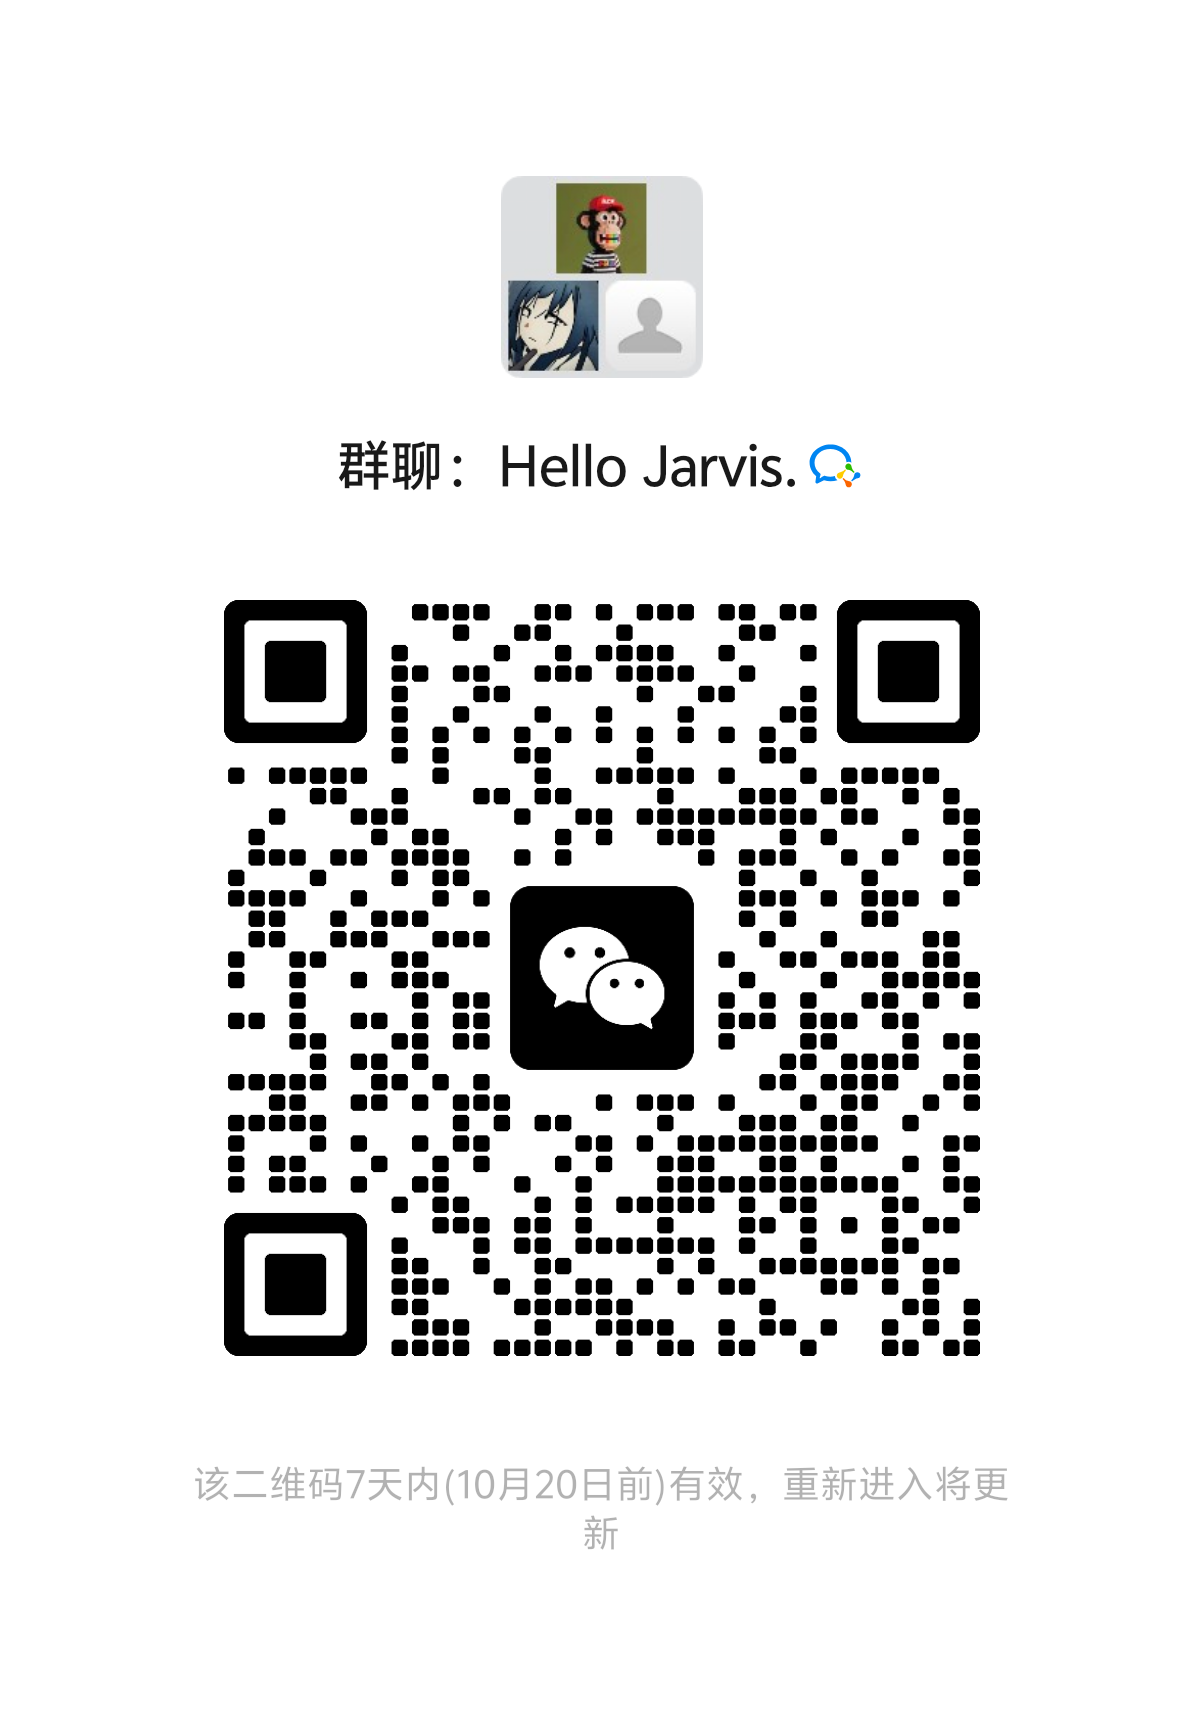
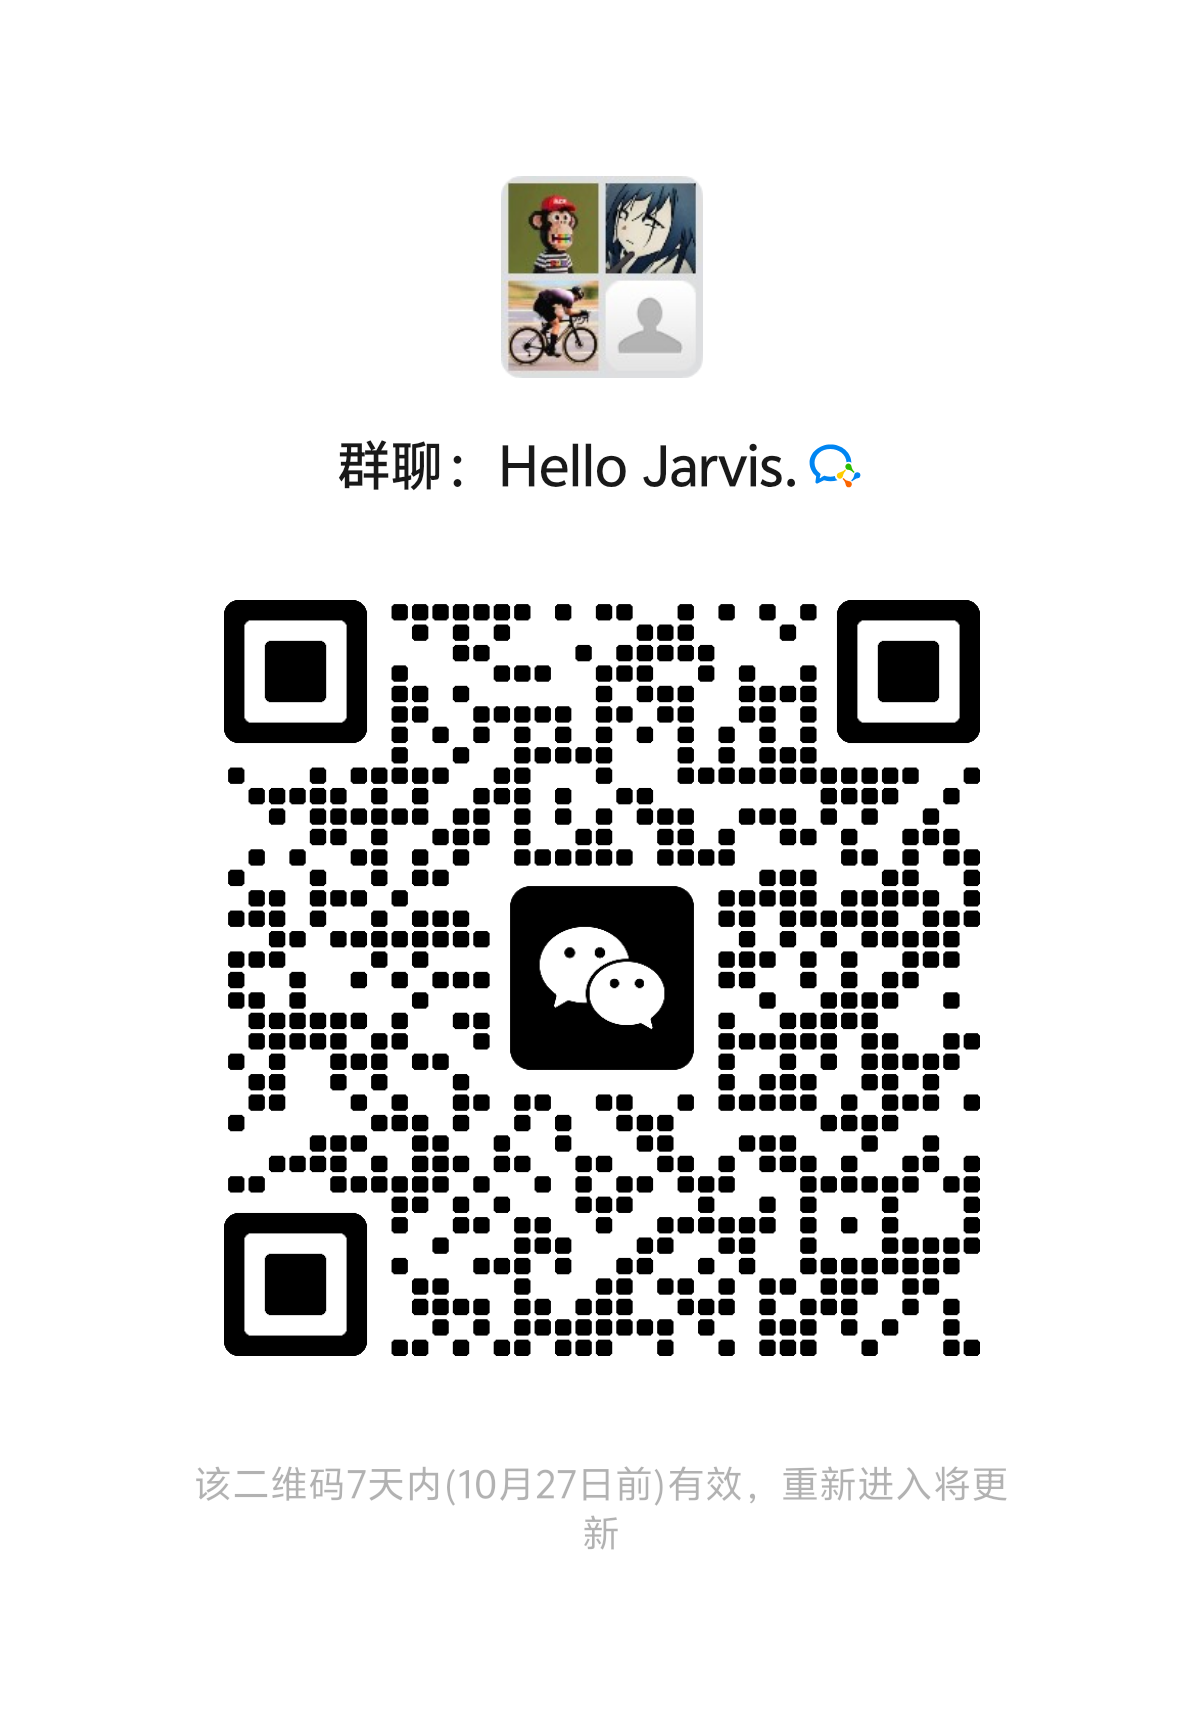
docs(readme): 交流群板块新增抖音群聊入口
- README.md / README.en.md：入群表格由两栏扩为三栏，新增抖音群「Hello Jarvis.」
  （群号 777346526350）及其入群码 assets/communication/discussion-group3.jpg
- 脚注补充“QQ 群与抖音群可直接在 App 内搜索群号加入”（英文版额外说明其不受二维码
  失效影响）；不写死抖音码到期日，避免文档过期失真
- 同步更新已过期微信群二维码 assets/communication/discussion-group.png

diff --git a/README.en.md b/README.en.md
@@ -238,15 +238,17 @@ Scan to join and exchange Agent app development experience, plugins and various 
 <table>
 <tr>
   <td align="center">WeChat group "Hello Jarvis."</td>
-  <td align="center">QQ group "Hello Jarvis." (1109055256)</td>
+  <td align="center">QQ group "Hello Jarvis."<br/>(1109055256)</td>
+  <td align="center">Douyin group "Hello Jarvis."<br/>(777346526350)</td>
 </tr>
 <tr>
   <td><img src="assets/communication/discussion-group.png" alt="WeChat group Hello Jarvis." width="150"/></td>
   <td><img src="assets/communication/discussion-group2.jpg" alt="QQ group Hello Jarvis." width="150"/></td>
+  <td><img src="assets/communication/discussion-group3.jpg" alt="Douyin group Hello Jarvis." width="150"/></td>
 </tr>
 </table>
 
-> The WeChat QR code is valid for 7 days; once it expires, get the latest invite from the QQ group.
+> The WeChat QR code is valid for 7 days; once it expires, get the latest invite from the QQ group. The QQ and Douyin groups can be joined by searching the group number directly in their apps, so they are not affected by expired QR codes.
 
 </div>
 

diff --git a/README.md b/README.md
@@ -239,15 +239,17 @@ J.A.R.V.I.S. 现阶段仍处于**开发与验证阶段**，功能尚未完全稳
 <table>
 <tr>
   <td align="center">微信群「Hello Jarvis.」</td>
-  <td align="center">QQ 群「Hello Jarvis.」（群号 1109055256）</td>
+  <td align="center">QQ 群「Hello Jarvis.」<br/>（群号 1109055256）</td>
+  <td align="center">抖音群「Hello Jarvis.」<br/>（群号 777346526350）</td>
 </tr>
 <tr>
   <td><img src="assets/communication/discussion-group.png" alt="微信群 Hello Jarvis." width="150"/></td>
   <td><img src="assets/communication/discussion-group2.jpg" alt="QQ 群 Hello Jarvis." width="150"/></td>
+  <td><img src="assets/communication/discussion-group3.jpg" alt="抖音群 Hello Jarvis." width="150"/></td>
 </tr>
 </table>
 
-> 微信群二维码 7 天内有效，过期后可从 QQ 群获取最新入群方式。
+> 微信群二维码 7 天内有效，过期后可从 QQ 群获取最新入群方式；QQ 群与抖音群可直接在 App 内搜索群号加入。
 
 </div>
 
